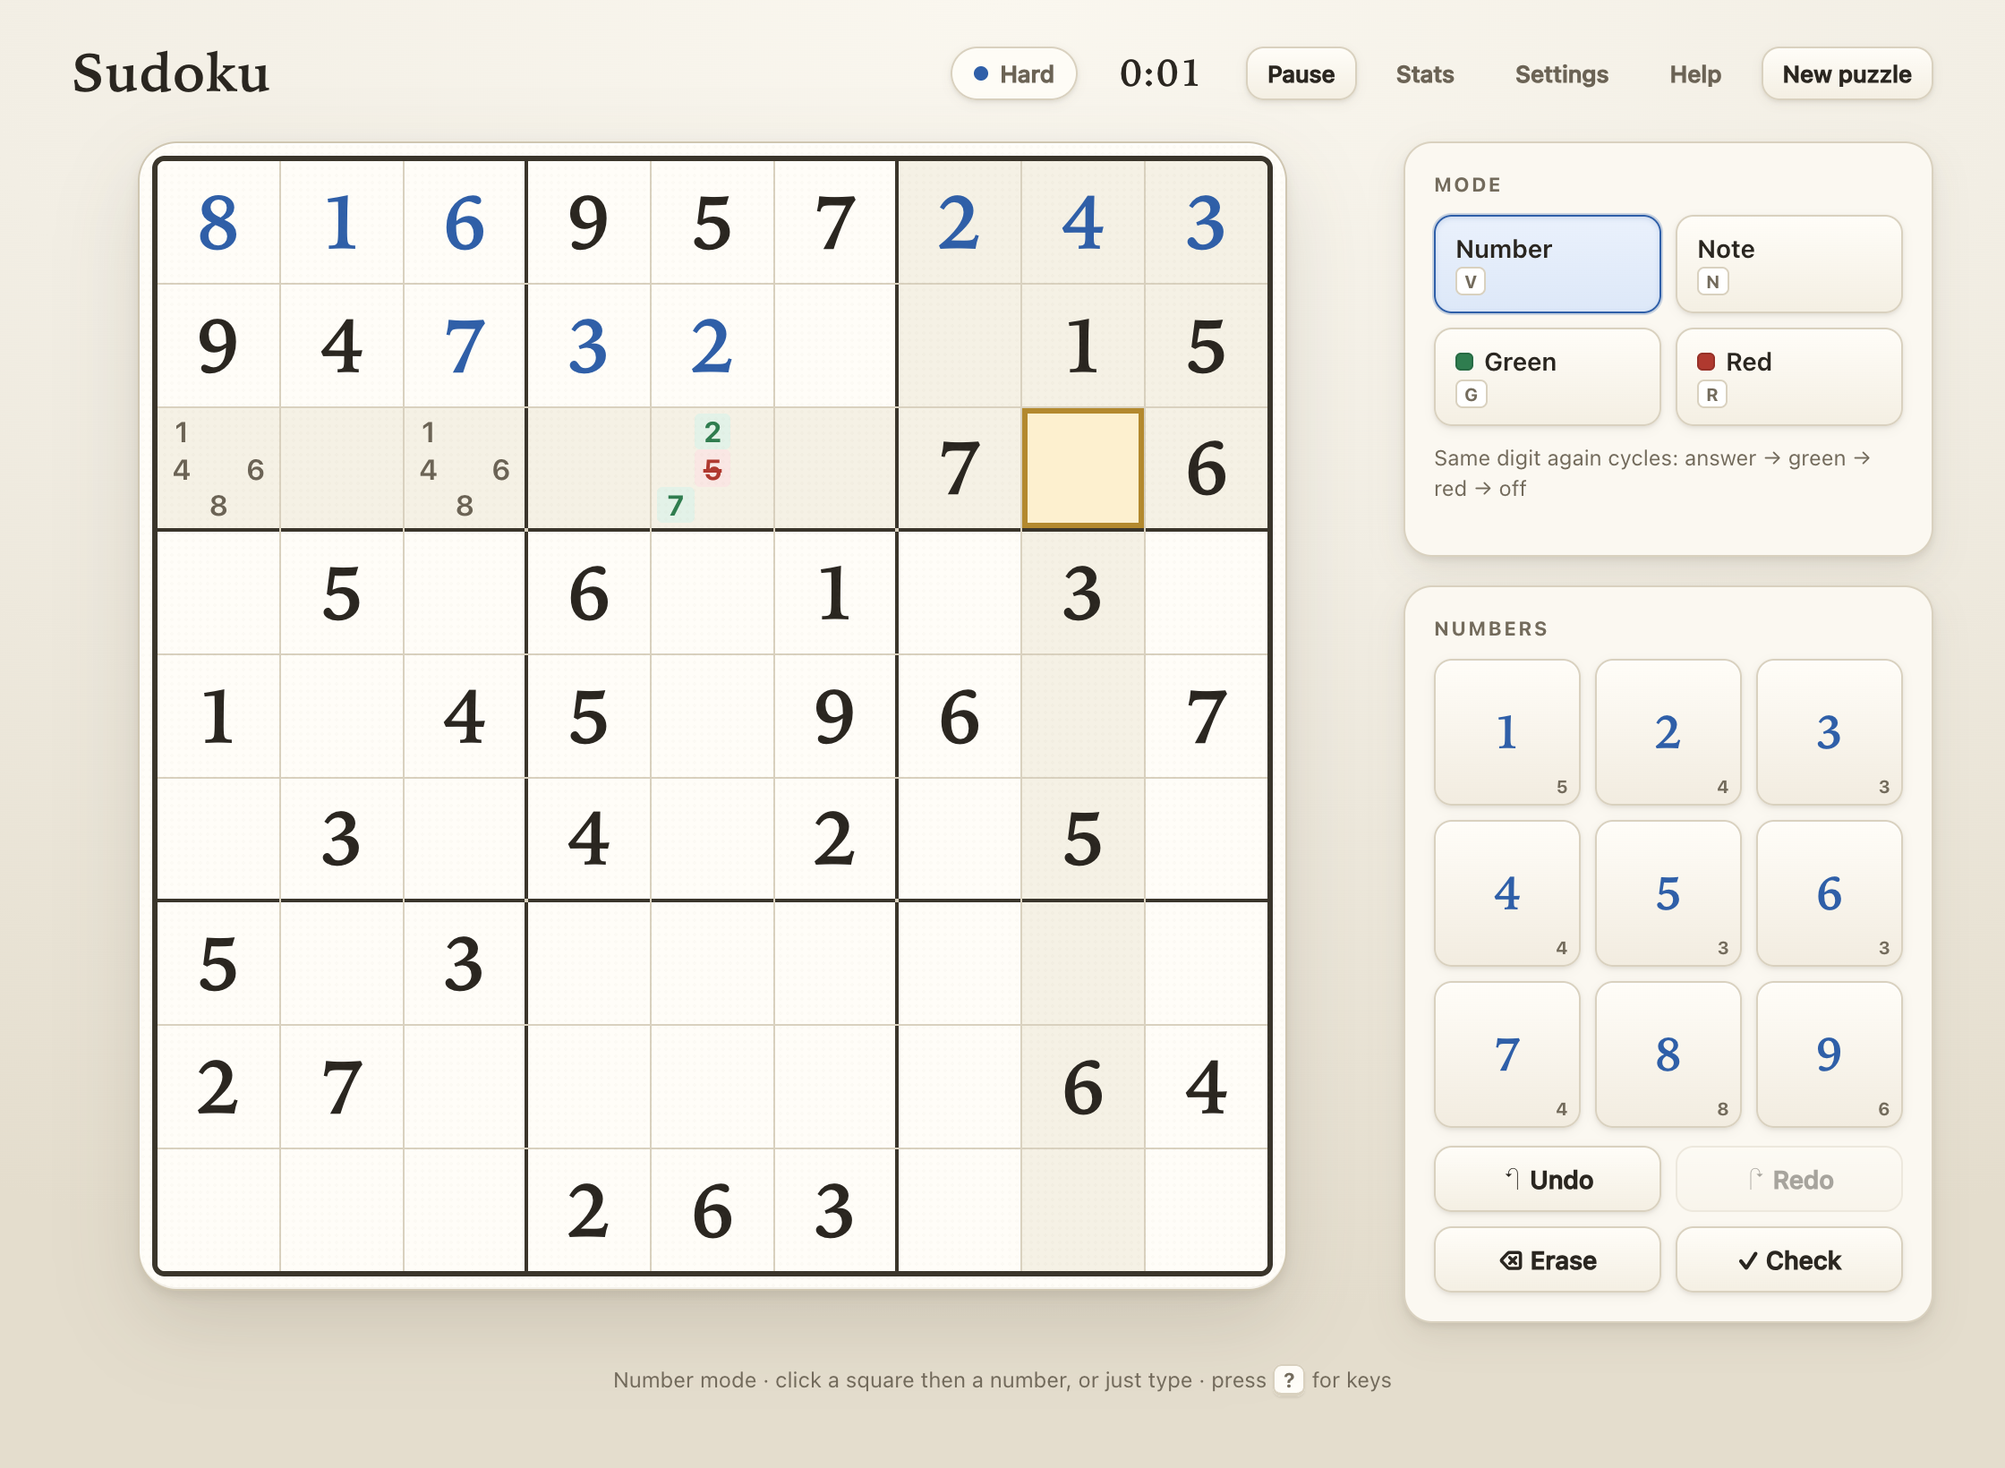
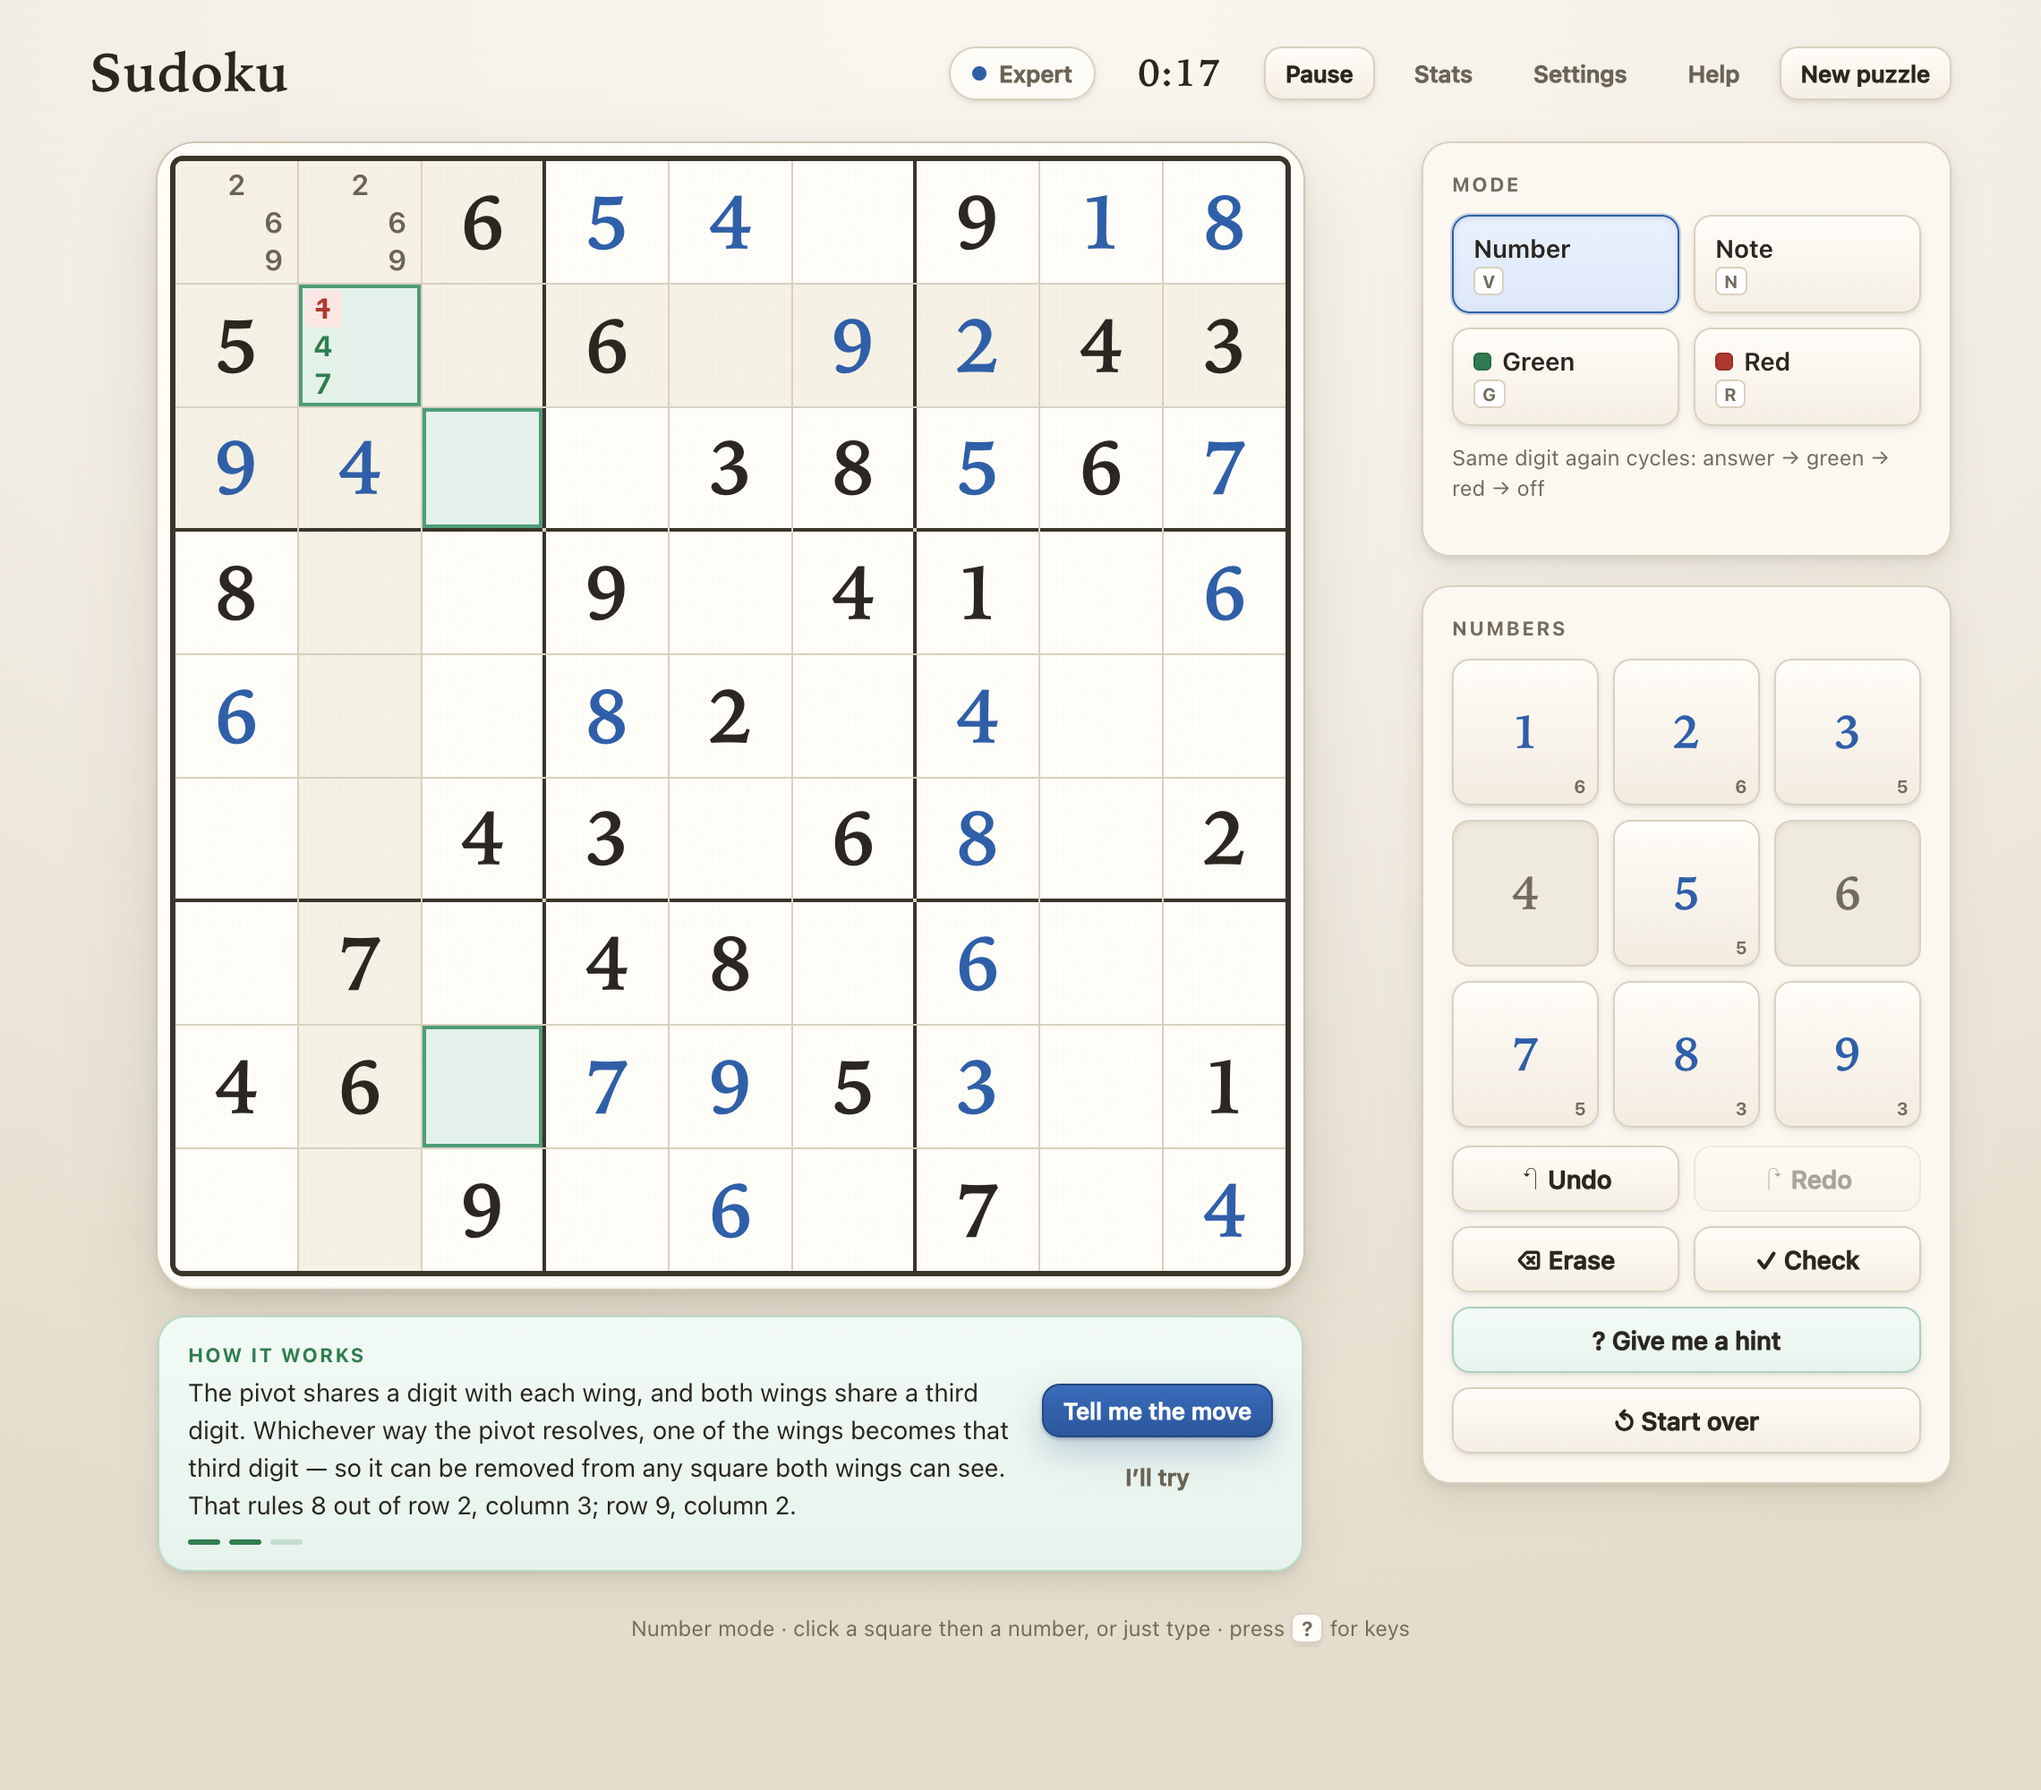
Refresh the README screenshot and developer notes
The screenshot predated the reset and hint features, so it showed a panel with
neither button. Retake it on a part-solved Expert board with an open hint
explaining the XY-Wing that unlocks the next number, which also shows the three
note colours in place.

Also list HintBar and the hint tests in the project layout, describe what the
test suite actually covers, and say plainly what the pre-game preview reports.

diff --git a/README.md b/README.md
@@ -3,7 +3,7 @@
 Sudoku that runs entirely in your browser. Five difficulty levels, coloured pencil-mark
 notes, and a timer and statistics kept on your own device.
 
-![Five difficulties, a rated board preview, and a light-paper grid](docs/board.png)
+![An Expert puzzle part-solved: coloured notes, and a hint explaining the XY-Wing that unlocks the next number](docs/board.png)
 
 ## Play it
 
@@ -28,8 +28,9 @@ Click a square and then a number, or click a square and type. Both work everywhe
 
 ### Choosing a puzzle
 
-Pick a difficulty and you're shown the board *before* you start — its size, how many
-numbers you're given, and how hard it worked out to be. Nothing is timed until you press
+Pick a difficulty and you're shown the board *before* you start — its measured difficulty
+score, how many numbers you're given, and the hardest tactic it needs. Nothing is timed
+until you press
 **Play this board**, so you can look at a puzzle and ask for a different one at no cost.
 
 ### Notes
@@ -179,17 +180,19 @@ src/
     game.js        the rules of play, with no React in them
     hint.js        finds the next move and explains it in stages
     storage.js     saved games, statistics and settings
-  components/      Board, SidePanel, StartScreen, Preview, Dialogs
-test/              checks for the solver, generator and rules
+  components/      Board, SidePanel, HintBar, StartScreen, Preview, Dialogs
+test/              checks for the solver, generator, rules and hints
 ```
 
 ```bash
 npm test
 ```
 
-Because the rules live apart from the interface, they can be tested directly — the tests
-cover puzzle generation and every input rule, including that notes survive a number being
-placed on top of them.
+Because the rules live apart from the interface, they can be tested directly. The tests
+cover puzzle generation and rating, every input rule (including that notes survive a
+number being placed on top of them), and the hint engine — which they check by solving a
+puzzle of each difficulty using nothing but hints, verifying every suggested move against
+the real solution.
 
 ## Licence
 
